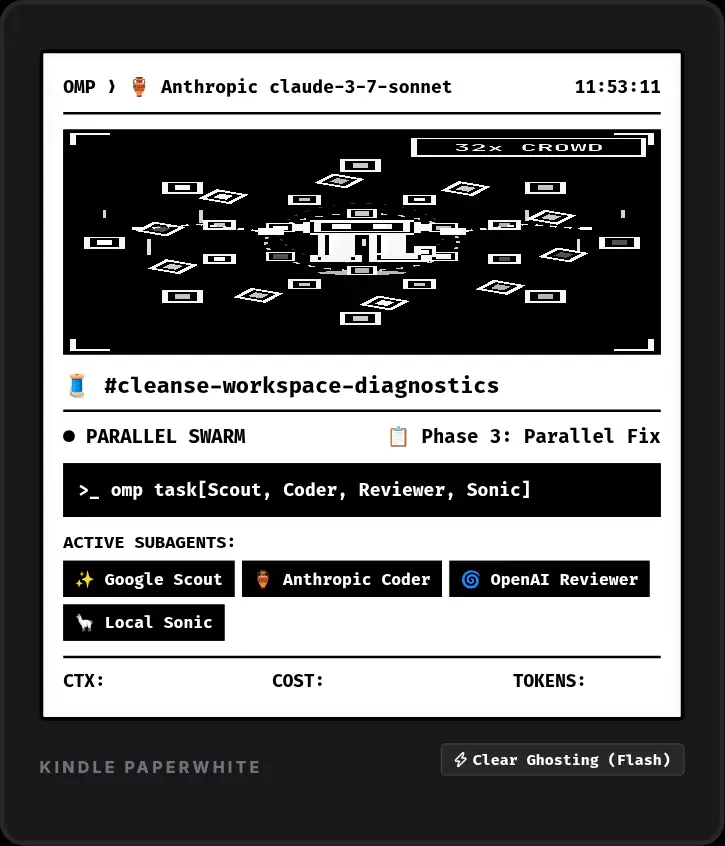
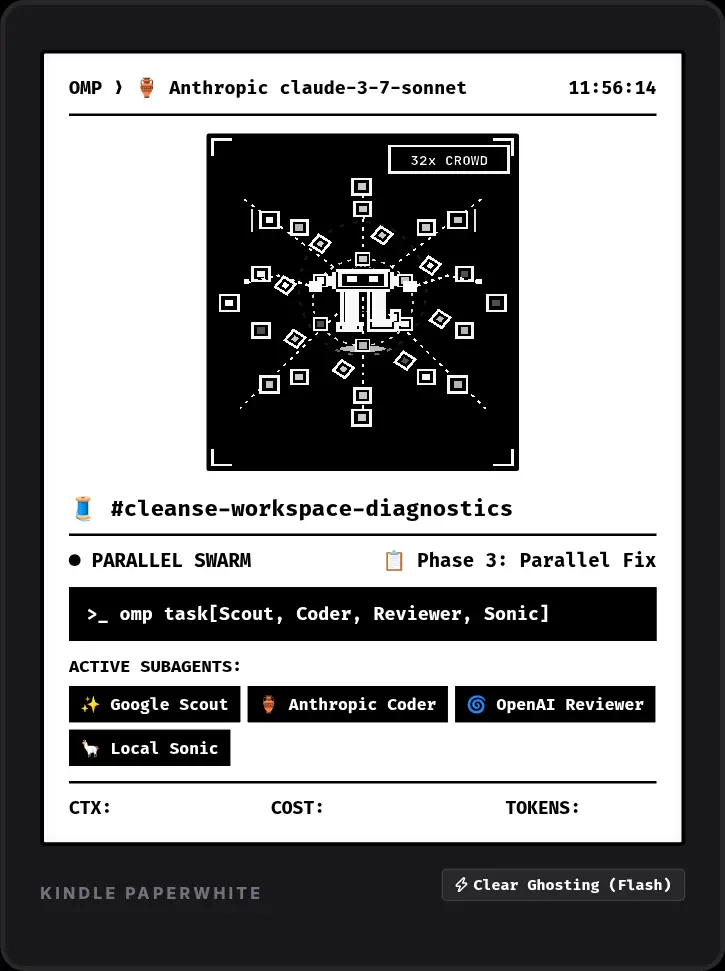
fix: Revise Kindle Portrait aspect ratio and mascot arena proportions; sync PRD and README

diff --git a/index.html b/index.html
@@ -212,53 +212,61 @@
       border: 3px solid #000000;
       border-radius: 4px;
       font-family: 'Fira Code', monospace;
-      padding: 16px;
+      padding: 16px 20px;
       position: relative;
       overflow: hidden;
-      min-height: 520px;
+      min-height: 560px;
       display: flex;
       flex-direction: column;
       justify-content: space-between;
       box-shadow: inset 0 0 10px rgba(0, 0, 0, 0.05);
     }
     .kindle-case.landscape-mode .eink-screen-surface {
-      min-height: 380px;
+      min-height: 400px;
+      padding: 16px;
     }
 
-    /* E-Ink High-Contrast Pure B&W Elements */
+    /* E-Ink Header */
     .eink-header {
       border-bottom: 2px solid #000000;
       padding-bottom: 8px;
-      margin-bottom: 12px;
+      margin-bottom: 14px;
       display: flex;
       justify-content: space-between;
-      font-size: 0.9rem;
+      align-items: center;
+      font-size: 0.92rem;
       font-weight: 800;
     }
-    .eink-mascot-box {
-      border: 2px solid #000000;
-      width: 100%;
-      height: 180px;
+
+    /* REVISED: Centered, Proportional 4:5 Mascot Arena for Portrait E-Ink */
+    .eink-mascot-box-portrait {
+      border: 2.5px solid #000000;
+      width: 250px;
+      height: 270px;
+      margin: 0 auto 16px;
       display: flex;
       align-items: center;
       justify-content: center;
       background: #000000;
-      margin-bottom: 12px;
+      border-radius: 2px;
     }
-    .eink-mascot-box img {
+    .eink-mascot-box-portrait img {
       width: 100%;
       height: 100%;
-      object-fit: contain;
+      object-fit: fill;
       image-rendering: pixelated;
       filter: grayscale(100%) contrast(200%);
     }
 
     .eink-thread-title {
-      font-size: 1.1rem;
+      font-size: 1.12rem;
       font-weight: 800;
       border-bottom: 2px solid #000000;
-      padding-bottom: 4px;
+      padding-bottom: 6px;
       margin-bottom: 8px;
+      white-space: nowrap;
+      overflow: hidden;
+      text-overflow: ellipsis;
     }
     .eink-status-row {
       display: flex;
@@ -271,10 +279,13 @@
       border: 2px solid #000000;
       background: #000000;
       color: #ffffff;
-      padding: 8px 10px;
-      font-size: 0.9rem;
+      padding: 8px 12px;
+      font-size: 0.92rem;
       font-weight: 800;
       margin-bottom: 10px;
+      white-space: nowrap;
+      overflow: hidden;
+      text-overflow: ellipsis;
     }
     .eink-subagents-row {
       display: flex;
@@ -297,15 +308,33 @@
       padding-top: 8px;
       display: flex;
       justify-content: space-between;
-      font-size: 0.88rem;
+      font-size: 0.9rem;
       font-weight: 800;
     }
 
+    /* E-Ink Landscape Split Grid */
     .eink-landscape-split {
       display: grid;
       grid-template-columns: 240px 1fr;
       gap: 16px;
       flex: 1;
+    }
+    .eink-mascot-box-landscape {
+      border: 2.5px solid #000000;
+      width: 100%;
+      height: 100%;
+      display: flex;
+      align-items: center;
+      justify-content: center;
+      background: #000000;
+      border-radius: 2px;
+    }
+    .eink-mascot-box-landscape img {
+      width: 100%;
+      height: 100%;
+      object-fit: fill;
+      image-rendering: pixelated;
+      filter: grayscale(100%) contrast(200%);
     }
 
     .eink-flashing {
@@ -769,14 +798,15 @@
           <!-- Pure 1-Bit Monochrome E-Ink Screen Surface -->
           <div class="eink-screen-surface" id="einkSurface">
             
-            <!-- PORTRAIT E-INK LAYOUT -->
+            <!-- PORTRAIT E-INK LAYOUT (REVISED PROPORTIONAL MASCOT ARENA) -->
             <div id="einkPortraitView">
               <div class="eink-header">
                 <span id="einkModel">OMP ❯ 🏺 Anthropic claude-3-7-sonnet</span>
                 <span id="einkClock">12:45:02</span>
               </div>
 
-              <div class="eink-mascot-box">
+              <!-- Centered, Proportional 4:5 Mascot Arena -->
+              <div class="eink-mascot-box-portrait">
                 <img id="einkMascotImg" src="assets/animations/pip-swarm-32.svg" alt="Pip Mascot E-Ink">
               </div>
 
@@ -817,7 +847,7 @@
               </div>
 
               <div class="eink-landscape-split">
-                <div class="eink-mascot-box" style="height: 100%; margin-bottom: 0;">
+                <div class="eink-mascot-box-landscape">
                   <img id="einkLandMascotImg" src="assets/animations/pip-swarm-32.svg" alt="Pip Mascot E-Ink Landscape">
                 </div>
 
@@ -1242,7 +1272,7 @@
         thread: '🧵 #refactor-auth-flow',
         modelTag: 'OMP ❯ 🏺 Anthropic claude-3-7-sonnet',
         state: '● EXECUTING TOOL',
-        phase: '📋 Phase 2: Test Verification',
+        phase: '📋 Phase 2: Auth (3/5)',
         cmd: '>_ cargo test --all --lib (00:03.2s)',
         subagents: [false, true, false, false],
         ctx: '48%',
